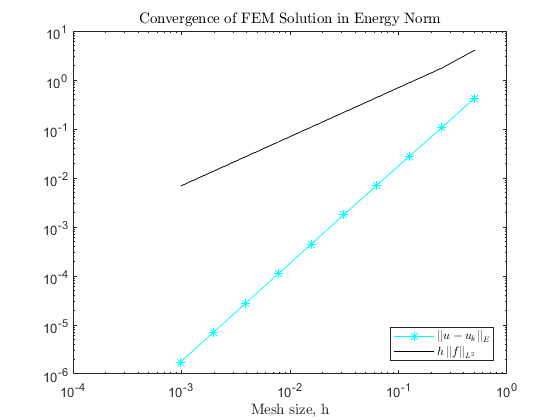
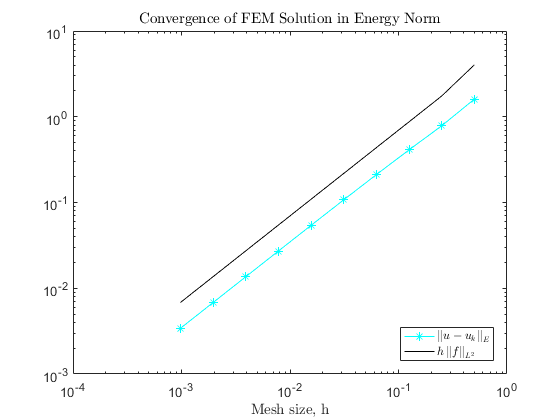
Altered plots
Altered energy norm plots

diff --git a/Main.m b/Main.m
@@ -20,19 +20,18 @@ for i = 1:N
     
     [FemSol, x] = SimpleFEM1D(n(i));
     ExactSol = Exact(x');
+    dExactSol = pi.*cos(pi.*x');
     errorMax(i) = norm(ExactSol-FemSol, inf);
     errorL2(i) = sqrt(Simpson13Approx(n(i),x,(ExactSol-FemSol).^2));
     fL2(i) = sqrt(Simpson13Approx(n(i),x,Loadf(x).^2));
-    dError(1) = 0;
     
     for j = 2:length(FemSol)
         
-        dError(j) = ((ExactSol(j) - FemSol(j)) -...
-            (ExactSol(j-1) - FemSol(j-1)))/(x(j) - x(j-1));
+        dError(j-1) = ((FemSol(j) - FemSol(j-1))/(x(j) - x(j-1))) - dExactSol(j-1);
         
     end
     
-    errorE(i) = sqrt(Simpson13Approx(n(i),x,dError.^2));
+    errorE(i) = sqrt(Simpson13Approx(n(i),x(2:end),dError.^2));
     plot(x,FemSol,'-o')
     
 end
@@ -45,10 +44,10 @@ legend('Exact', 'h = 0.5', 'h = 0.25', 'h = 0.125')
 hold off
 
 figure(2)
-loglog(h,h.^2,'k-',h,errorMax,'*-r',h,errorL2,'*-b',h,errorE,'*-c')
+loglog(h,h,'k--',h,h.^2,'k-',h,errorMax,'*-r',h,errorL2,'*-b',h,errorE,'*-c')
 xlabel('Mesh size, h', 'Interpreter', 'latex')
 ylabel('Error, e(h)', 'Interpreter', 'latex')
-legend({'Quadratic', '$\max_i |u(x_i)-u_k(x_i)|$', '$\left \| u - u_k \right \|_{L^2}$', '$\left \| u - u_k \right \|_E$'}, 'Interpreter', 'latex')
+legend({'Linear', 'Quadratic', '$\max_i |u(x_i)-u_k(x_i)|$', '$\left \| u - u_k \right \|_{L^2}$', '$\left \| u - u_k \right \|_E$'}, 'Interpreter', 'latex')
 legend('Location', 'southeast')
 
 figure(3)
